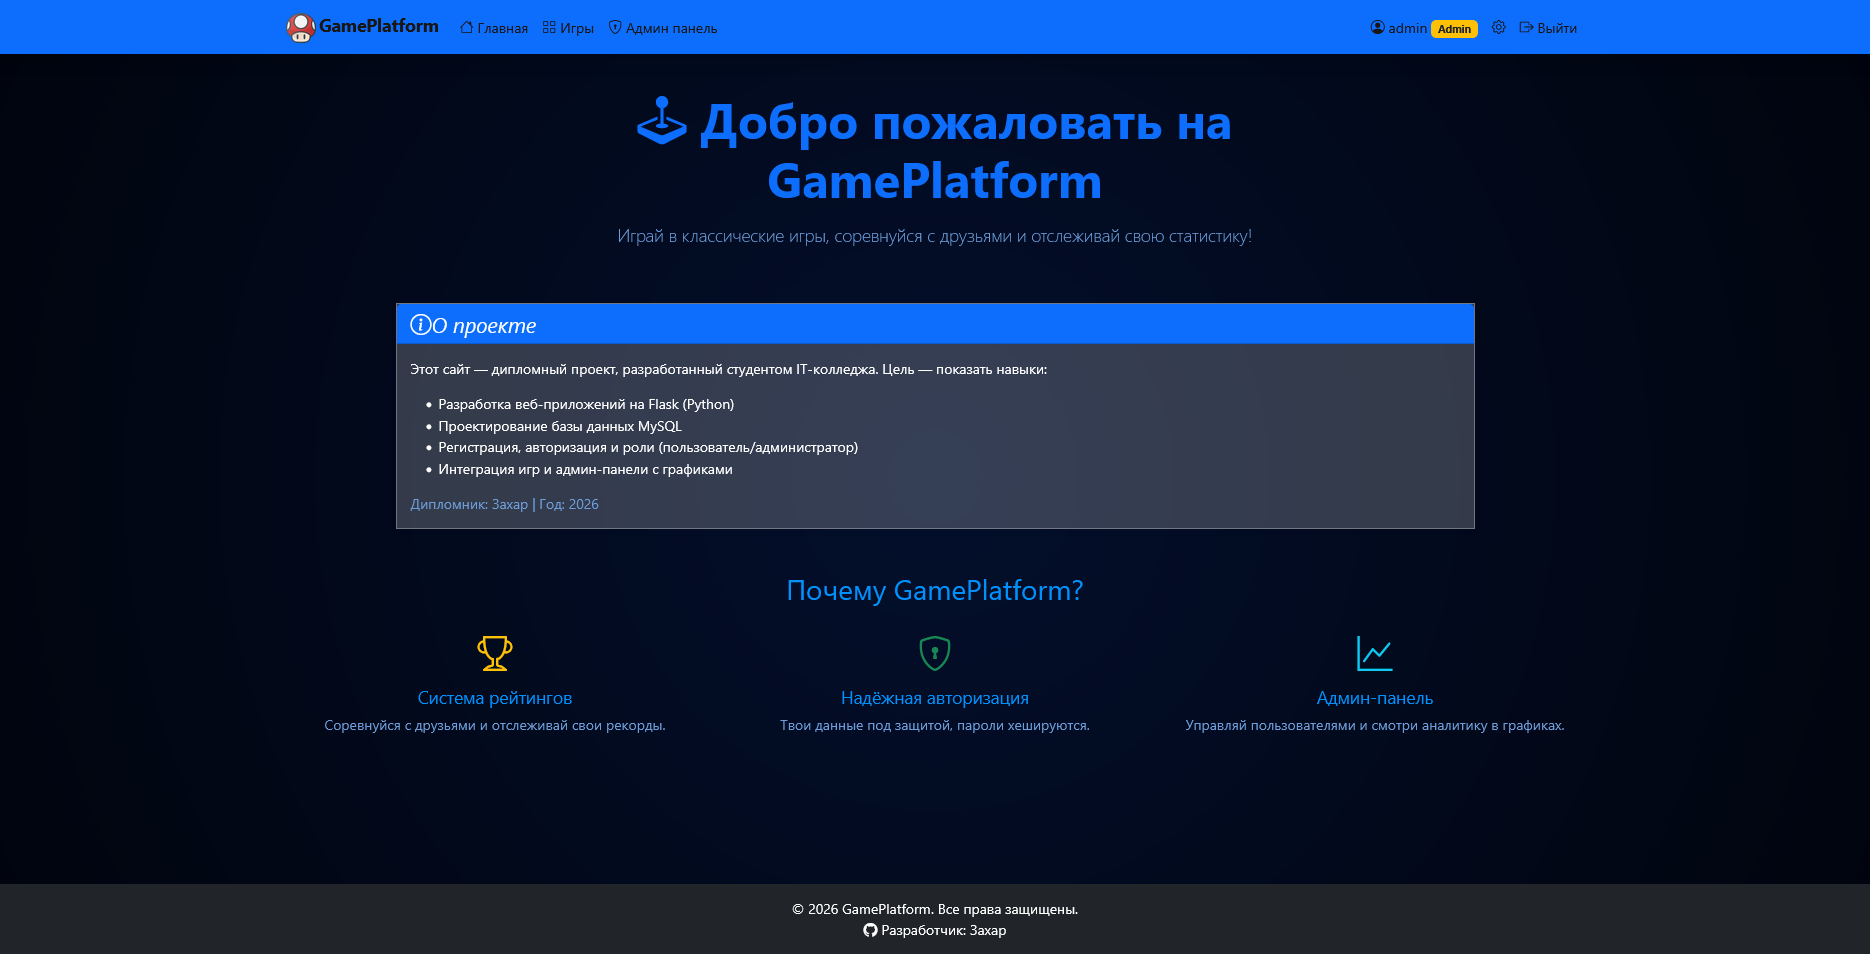
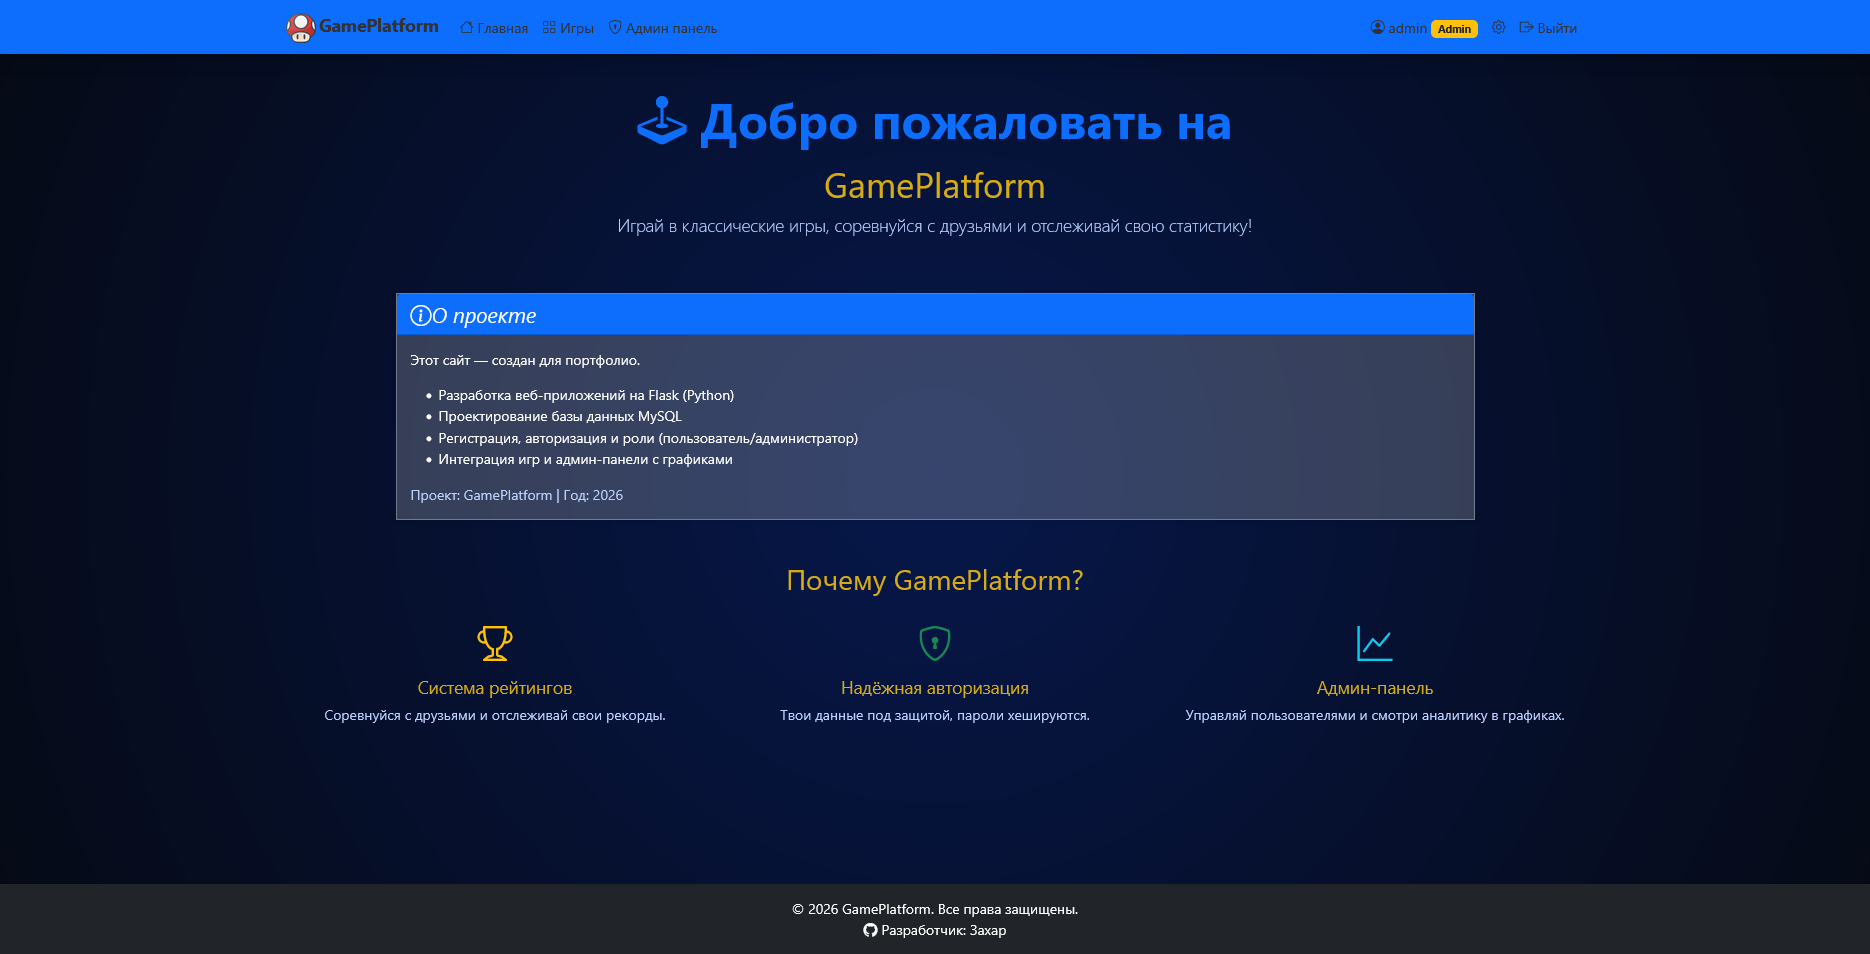
скриншоты, стили, текст.

diff --git a/static/css/style.css b/static/css/style.css
@@ -1,9 +1,9 @@
 /* ===== ОСНОВНЫЕ СТИЛИ ===== */
 body {
-    background: radial-gradient(circle at center, #030F2C 0%, #01040D 100%);
+    background: radial-gradient(circle at center, #06174a 0%, #060a15 100%);
     min-height: 100vh;
     margin: 0;
-    color: #0091fd
+    color: #d6ac16
 }
 
 /* ===== СТИЛИ ДЛЯ ИГР ===== */
@@ -114,13 +114,13 @@ body {
     height: 120px;
     border-radius: 50%;
     object-fit: cover;
-    border: 4px solid #0d6efd;
+    border: 4px solid #000000;
     box-shadow: 0 5px 15px rgba(13, 110, 253, 0.3);
 }
 
 .streak-badge {
-    background: linear-gradient(135deg, #f093fb 0%, #f5576c 100%);
-    color: white;
+    background: linear-gradient(135deg, #3d6fdc 0%, #ed1a2a 100%);
+    color: #040303;
     padding: 0.5rem 1.5rem;
     border-radius: 50px;
     font-weight: bold;
@@ -367,7 +367,7 @@ body {
 
 /* ===== Переопределение цвета текста ===== */
 .text-muted {
-  color: #6e9eda !important;
+  color: #f66565 !important;
 }
 
 /* Стиль для карточек игр */
@@ -412,7 +412,7 @@ body {
 
 .navbar-dark .navbar-brand,
 .navbar-dark .navbar-nav .nav-link {
-    color: #191616 !important;  /* золотой */
+    color: #333131 !important;
 }
 
 .navbar-dark .navbar-brand:hover,
@@ -422,21 +422,21 @@ body {
 
 /* Настройки круговой диаграммы */
 #gameRecordsChart {
-    max-width: 400px;      /* максимальная ширина */
-    max-height: 400px;     /* максимальная высота */
-    margin: 0 auto;        /* центр */
+    max-width: 400px;
+    max-height: 400px;
+    margin: 0 auto;
     display: block;
 }
 
 /* Ссылки на профили */
 .no-link-style {
-    color: inherit;           /* наследует цвет от родителя (не синий) */
-    text-decoration: none;    /* убираем подчёркивание */
+    color: inherit;
+    text-decoration: none;
 }
 
 .no-link-style:hover {
-    color: inherit;           /* при наведении цвет не меняется */
-    text-decoration: none;    /* подчёркивание не появляется */
-    cursor: pointer;          /* но курсор остаётся как у ссылки */
+    color: inherit;
+    text-decoration: none;
+    cursor: pointer;
 
 }

diff --git a/templates/docs.html b/templates/docs.html
@@ -14,8 +14,8 @@
                     
                     <h4>О платформе</h4>
                     <p>
-                        GamePlatform - это веб-платформа для классических игр, разработанная в рамках 
-                        дипломного проекта. Платформа включает в себя три игры, систему статистики, 
+                        GamePlatform - это веб-платформа для классических игр.
+                        Платформа включает в себя три игры, систему статистики,
                         профили пользователей и социальные функции.
                     </p>
                     
@@ -82,13 +82,13 @@
                     
                     <h4 class="mt-4">Социальные функции</h4>
                     <ul>
-                        <li><strong>Друзья:</strong> Добавление пользователей в друзья</li>
+                        <li><strong>Друзья:</strong> Добавление пользователей в друзья в разработке!!!</li>
                         <li><strong>Комментарии:</strong> Возможность оставлять комментарии на стенах</li>
                         <li><strong>Роли:</strong> Пользователи и администраторы</li>
                     </ul>
                     
                     <h4 class="mt-4">Разработчик</h4>
-                    <p>Проект разработан в рамках дипломной работы.</p>
+                    <p>Проект разработан для портфолио</p>
                     <p>Год: 2026</p>
                     
                     <hr>

diff --git a/templates/index.html b/templates/index.html
@@ -8,9 +8,9 @@
     <div class="row mb-5">
         <div class="col-lg-8 mx-auto text-center">
             <h1 class="display-4 fw-bold text-primary mb-3">
-                <i class="bi bi-joystick"></i> Добро пожаловать на GamePlatform
+                <i class="bi bi-joystick"></i> Добро пожаловать на <h1>GamePlatform</h1>
             </h1>
-            <p class="lead text-muted">
+            <p class="lead p-index text-muted">
                 Играй в классические игры, соревнуйся с друзьями и отслеживай свою статистику!
             </p>
             {% if not current_user.is_authenticated %}
@@ -33,14 +33,14 @@
                 <h4 class="mb-0"><i class="bi bi-info-circle">О проекте</i></h4>
             </div>
             <div class="card-body">
-                    <p>Этот сайт — дипломный проект, разработанный студентом IT-колледжа. Цель — показать навыки:</p>
+                    <p>Этот сайт — создан для портфолио.</p>
                     <ul>
                         <li>Разработка веб-приложений на Flask (Python)</li>
                         <li>Проектирование базы данных MySQL</li>
                         <li>Регистрация, авторизация и роли (пользователь/администратор)</li>
                         <li>Интеграция игр и админ-панели с графиками</li>
                     </ul>
-                    <p class="text-muted mb-0">Дипломник: Захар | Год: 2026</p>
+                    <p class="text-muted mb-0">Проект: GamePlatform | Год: 2026</p>
             </div>
         </div>
     </div>

diff --git a/templates/profile.html b/templates/profile.html
@@ -57,11 +57,11 @@
             <div class="stat-card">
                 <div class="game-icon">
                     {% if game_name == 'sudoku' %}
-                        <i class="bi bi-grid-3x3-gap-fill text-primary"></i>
+                        <i class="bi text-primary"></i>
                     {% elif game_name == 'dino' %}
-                        <i class="bi bi-dragon text-success"></i>
+                        <i class="bi text-success"></i>
                     {% elif game_name == 'tetris' %}
-                        <i class="bi bi-stack text-danger"></i>
+                        <i class="bi text-danger"></i>
                     {% endif %}
                 </div>
                 <h5>{{ game_name|capitalize }}</h5>
@@ -114,7 +114,7 @@
         {% endfor %}
     </div>
 
-    <!-- Заметки на стене -->
+    <!-- Комментарии на стене -->
     <div class="row">
         <div class="col-12">
             <div class="card">
@@ -122,7 +122,7 @@
                     <h5 class="mb-0"><i class="bi bi-journal-text"></i> Комментарии</h5>
                 </div>
                 <div class="card-body">
-                    <!-- Форма заметки (только для авторизованных) -->
+                    <!-- Форма комментов -->
                     {% if current_user.is_authenticated %}
                     <form method="POST" class="mb-4">
                         {{ form.hidden_tag() }}
@@ -135,7 +135,7 @@
                     </form>
                     {% endif %}
 
-                    <!-- Список заметок -->
+                    <!-- Список комментариев -->
                     {% if notes %}
                         {% for note in notes %}
                         <div class="comment-box">

diff --git a/templates/games/tetris.html b/templates/games/tetris.html
@@ -8,7 +8,7 @@
         <div class="col-lg-8 mx-auto">
             <div class="card shadow">
                 <div class="card-header bg-danger text-white text-center">
-                    <h3><i class="bi bi-stack"></i> Тетрис</h3>
+                    <h3><i class="bi"></i>Тетрис</h3>
                 </div>
                 <div class="card-body text-center">
                     <div class="alert alert-secondary mt-1">

diff --git a/templates/base.html b/templates/base.html
@@ -3,7 +3,7 @@
 <head>
     <meta charset="UTF-8">
     <meta name="viewport" content="width=device-width, initial-scale=1.0">
-    <title>{% block title %}Game Platform{% endblock %}</title>
+    <title>{% block title %}GamePlatform{% endblock %}</title>
 
     <!-- Bootstrap 5 CSS -->
     <link href="https://cdn.jsdelivr.net/npm/bootstrap@5.3.0/dist/css/bootstrap.min.css" rel="stylesheet">

diff --git a/app.py b/app.py
@@ -80,6 +80,9 @@ def update_streak(user):
 def allowed_file(filename):
     return '.' in filename and filename.rsplit('.', 1)[1].lower() in ALLOWED_EXTENSIONS
 
+# Настройки для загрузки файлов
+ALLOWED_EXTENSIONS = {'png', 'jpg', 'jpeg', 'gif'}
+
 # Маршруты
 @app.route('/')
 def index():
@@ -137,12 +140,14 @@ def admin_panel():
     admins_count = User.query.filter_by(role='admin').count()
     total_games = GameSession.query.count()
     total_notes = Note.query.count()
-
+    active_today = User.query.filter_by(last_login_date=date.today()).count()
+    
     return render_template('admin/dashboard.html',
                            users=users,
                            admins_count=admins_count,
                            total_games=total_games,
-                           total_notes=total_notes)
+                           total_notes=total_notes,
+                           active_today = active_today)
 
 
 @app.route('/profile/<username>', methods=['GET', 'POST'])
@@ -333,10 +338,6 @@ def delete_note(note_id):
     return jsonify({'success': False, 'message': 'Нет прав'}), 403
 
 
-# Настройки для загрузки файлов
-ALLOWED_EXTENSIONS = {'png', 'jpg', 'jpeg', 'gif'}
-
-
 @app.route('/upload_avatar', methods=['POST'])
 @login_required
 def upload_avatar():
@@ -385,7 +386,7 @@ def top_scores():
         'username': u[0],
         'score': u[1],
         'game_name': u[2]
-    } for u in top])
+    } for u in top])    
 
 @app.route('/api/delete_account', methods=['DELETE'])
 @login_required

diff --git a/models.py b/models.py
@@ -60,7 +60,7 @@ class Note(db.Model):
     __tablename__ = 'notes'
 
     id = db.Column(db.Integer, primary_key=True)
-    user_id = db.Column(db.Integer, db.ForeignKey('users.id'), nullable=False)  # кому заметка
+    user_id = db.Column(db.Integer, db.ForeignKey('users.id'), nullable=False)  # кому комменатарий
     author_id = db.Column(db.Integer, db.ForeignKey('users.id'), nullable=False)  # кто написал
     content = db.Column(db.Text, nullable=False)
     created_at = db.Column(db.DateTime, default=datetime.utcnow)

diff --git a/forms.py b/forms.py
@@ -33,8 +33,8 @@ class ChangePasswordForm(FlaskForm):
     submit = SubmitField('Сменить пароль')
 
 class NoteForm(FlaskForm):
-    content = TextAreaField('Заметка', validators=[DataRequired(), Length(max=500)])
-    submit = SubmitField('Оставить заметку')
+    content = TextAreaField('Комментарий', validators=[DataRequired(), Length(max=500)])
+    submit = SubmitField('Оставить комментарий')
 
 
 class FriendRequestForm(FlaskForm):

diff --git a/README.md b/README.md
@@ -2,8 +2,6 @@
 
 Игровая веб-платформа с тремя классическими играми (Судоку, Динозаврик, Тетрис), системой авторизации, рейтингов, административной панелью и социальными функциями.
 
-Дипломный проект студента IT-колледжа.
-
 ---
 
 ## 🚀 Технологии
@@ -11,7 +9,7 @@
 - **Backend**: Python 3.12, Flask 2.3.3, Flask-Login, Flask-SQLAlchemy
 - **База данных**: MySQL 8.0, SQLAlchemy ORM
 - **Frontend**: HTML5, CSS3, Bootstrap 5, JavaScript (ES6), Chart.js
-- **Инструменты**: Git, GitHub, ERwin, Draw.io
+- **Инструменты**: Git, GitHub, ERwin, Draw.io, BPwin
 
 ---
 
@@ -46,29 +44,41 @@
 
 ## 📸 Скриншоты
 
+### Главная страница до авторизации
+![Вход](screenshots/main_reg_auth.png)
+
 ### Главная страница
 ![Главная страница](screenshots/main.png)
 
 ### Страница регистрации
 ![Регистрация](screenshots/register.png)
 
-### Страница входа
-![Вход](screenshots/login.png)
-
 ### Страница со списком игр и таблица рекордов
-![Список игр](screenshots/games.png)
+![Список игр](screenshots/main_games.png)
 
 ### Профиль пользователя
 ![Профиль](screenshots/profile.png)
 
 ### Игровой процесс «Тетрис»
-![Тетрис](screenshots/tetris.png)
+![Тетрис](screenshots/tetris_game.png)
 
-### Админ-панель – управление пользователями
-![Админ-панель (пользователи)](screenshots/admin_users.png)
+### Игровой процесс «Судоку»
+![Судоку](screenshots/sudo_game.png)
+
+### Игровой процесс «Динозаврик»
+![Динозаврик](screenshots/dino_game.png)
+
+### Админ-панель 
+![Админ-панель](screenshots/admin_panel.png)
 
 ### Админ-панель – графики
-![Админ-панель (графики)](screenshots/admin_charts.png)
+![Профиль_пользователя](screenshots/profile.png)
+
+### Настройки
+![Настройки](screenshots/settings.png)
+
+### Документация
+![Документация](screenshots/docs.png)
 
 ---
 
@@ -116,5 +126,5 @@ game-platform/
 └── README.md              # этот файл
 
 📄 Лицензия
-Дипломный проект. Автор: Захар (BlueLock-wasd)
+Автор: Захар (BlueLock-wasd)
 Последнее обновление: июнь 2026 г.
